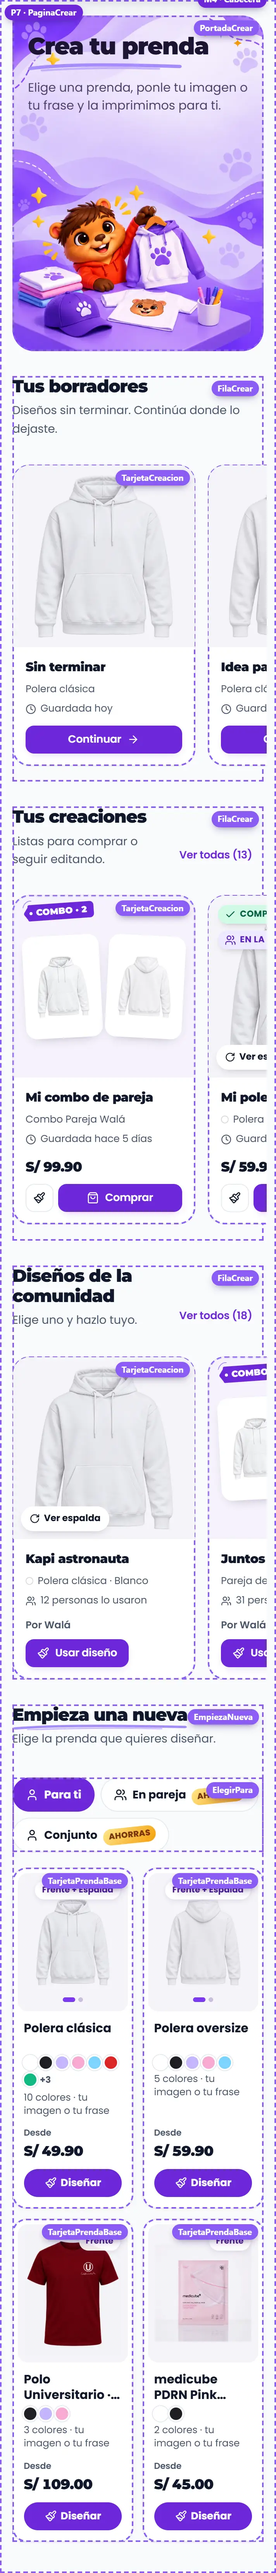
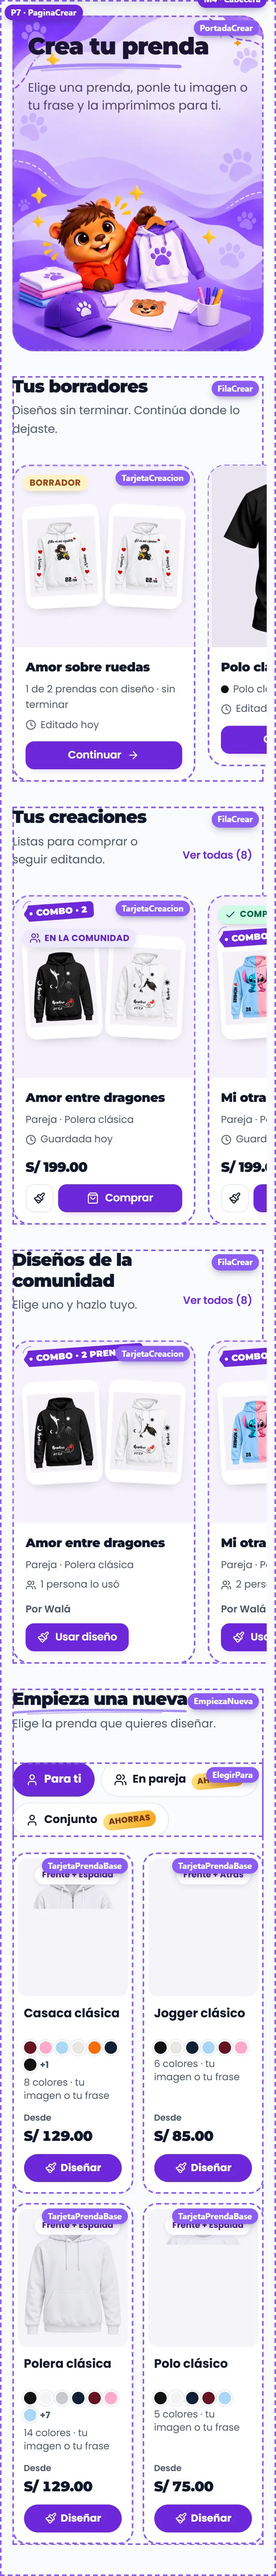
Kit: Crear con los datos reales de Walá; los puntos de la foto como en la tienda
La demo de Crear usa demo/crear.json: las prendas base y los combos de
productos_wala y los diseños de la comunidad, leídos de wala.pe y pasados
por los adaptadores del kit. Con sesión, esos diseños personalizados hacen
de borradores y creaciones (también en Mis creaciones), en lugar de
prendas en blanco. Los puntos de frente/espalda de TarjetaPrendaBase son
los de la tienda: dos puntos arriba, solo sin ratón.

diff --git a/src/componentes/DemoCuenta.jsx b/src/componentes/DemoCuenta.jsx
@@ -5,10 +5,10 @@ import {
   PaginaCatalogo, PaginaCupones, PaginaMisiones, PaginaReferidos, PaginaCreaciones, PaginaListaDeseos, PaginaFechas,
   PaginaDetallePedido, HojaPagarSaldo, Boton, enlaceWhatsApp, PaginaEncuesta,
   PaginaLogin, PaginaRegistro, PaginaRecuperar, PaginaCompletarPerfil, PaginaCrear,
+  prendaCrearDesdeProducto, comboCrearDesde, disenoComunidadDesde,
 } from './kit';
 import { empresa } from '../config/empresa';
-import POLERA from './demo/polera-fondo-blanco.jpg';
-import POLERA_ESPALDA from './demo/polera-fondo-blanco-espalda.jpg';
+import CREAR from './demo/crear.json';
 import { volarMonedasGanadas } from '../utils/animations';
 import { DEPARTAMENTOS, getProvincias } from '../constants/peruUbigeo';
 import { distritosSugeridos, lugarLegible } from '../utils/ubicacionErp';
@@ -145,20 +145,48 @@ const gruposReferidosDemo = (fotos) => [
 
 /* Personalización: creaciones (las fotos de la polera son de la demo del
    estudio), deseos (productos reales) y fechas importantes. */
-const creacionesDemo = (fotos) => [
-  { id: 'd1', nombre: 'Mi polera con Kapi', imagen: POLERA, imagenEspalda: POLERA_ESPALDA, producto: 'Polera clásica', color: { nombre: 'Blanco', hex: '#ffffff' },
-    fecha: 'Guardada hace 3 días', precio: 59.9, comprado: true, publicada: true, urlEditar: '/crear/polera?designId=d1', urlComprar: '/creacion/d1' },
-  { id: 'd2', nombre: 'Para el equipo', imagen: POLERA, imagenEspalda: POLERA_ESPALDA, producto: 'Polera clásica', color: { nombre: 'Blanco', hex: '#ffffff' },
-    fecha: 'Guardada ayer', precio: 54.9, precioAntes: 64.9, combo: 'Pareja', urlEditar: '/crear/polera?designId=d2', urlComprar: '/creacion/d2' },
-  { id: 'd3', nombre: 'Regalo para papá', imagen: fotos[2]?.imagen, producto: fotos[2]?.nombre, fecha: 'Guardada hace 12 días', precio: 34.9,
-    lados: 'Frente', urlEditar: '/editor/taza?designId=d3', urlComprar: '/creacion/d3' },
-  { id: 'd4', nombre: 'Diseño de verano', imagen: fotos[0]?.imagen, producto: 'Polo descontinuado', fecha: 'Guardada hace 40 días', disponible: false, urlEditar: '/editor/x?designId=d4' },
-];
-/* Un combo guardado (TarjetaMiCombo) y uno a medias. */
-const combosDemo = (fotos) => [
-  { id: 'k1', nombre: 'Mi combo de pareja', imagenes: [POLERA, POLERA_ESPALDA], combo: '2', subtitulo: 'Combo Pareja Walá',
-    fecha: 'Guardada hace 5 días', precio: 99.9, urlEditar: '/combo/pareja?mio=k1', urlComprar: '/combo/pareja?mio=k1' },
-];
+/* ── Datos reales de Crear (demo/crear.json: prendas base, combos y diseños
+   de la comunidad leídos de wala.pe), por los adaptadores del kit. ── */
+const PRENDAS_CREAR = CREAR.prendas
+  .filter((p) => p.deleted !== true)
+  .sort((a, b) => String(a.name).localeCompare(String(b.name)));
+const PRENDA_POR_ID = new Map(PRENDAS_CREAR.map((p) => [p.id, p]));
+const precioDe = (id) => {
+  const p = PRENDA_POR_ID.get(id) || CREAR.combos.find((c) => c.id === id);
+  if (!p) return undefined;
+  const sale = Number(p.salePrice);
+  return sale > 0 && sale < Number(p.price) ? sale : Number(p.price);
+};
+const FECHAS = ['Guardada hoy', 'Guardada ayer', 'Guardada hace 3 días', 'Guardada hace 5 días', 'Guardada hace 12 días', 'Guardada hace 20 días'];
+
+/** Un diseño real (de la comunidad) como si fuera una creación del cliente. */
+const creacionDesdeReal = (d, k) => {
+  const { usar, ...base } = disenoComunidadDesde(d);
+  const esCombo = d.tipo === 'combo';
+  return {
+    ...base,
+    id: `cr-${d.id}`,
+    fecha: FECHAS[k % FECHAS.length],
+    precio: precioDe(esCombo ? d.comboId : d.productId),
+    combo: esCombo ? String((d.piezas || []).length) : undefined,
+    subtitulo: esCombo ? d.comboNombre : undefined,
+    comprado: k === 1,
+    publicada: k === 0,
+    urlEditar: esCombo ? `/combo/${d.comboId}?mio=${d.id}` : `/crear/${d.productId}?designId=${d.id}`,
+    urlComprar: `/creacion/${d.id}`,
+  };
+};
+
+const creacionesDemo = () => CREAR.comunidad.map(creacionDesdeReal);
+
+const BORRADORES = CREAR.comunidad.slice(-3).map((d, k) => {
+  const c = creacionDesdeReal(d, k);
+  return {
+    id: `b-${d.id}`, nombre: c.nombre, imagen: c.imagen, imagenes: c.imagenes, producto: c.producto, color: c.color,
+    subtitulo: c.imagenes ? '1 de 2 prendas con diseño · sin terminar' : undefined,
+    fecha: ['Editado hoy', 'Editado ayer', 'Editado hace 2 días'][k], urlEditar: c.urlEditar,
+  };
+});
 
 /* Pedidos por verificar (coinciden con el documento). */
 const POR_VERIFICAR = [
@@ -190,12 +218,6 @@ const detalleDe = (p) => p && ({
   direccion: { linea: 'Av. Larco 1150, dpto. 502 (frente al parque)', lugar: 'Miraflores, Lima Metropolitana' },
   resumen: { productos: p.total, envio: p.total >= 150 ? 0 : 12, total: p.total + (p.total >= 150 ? 0 : 12) },
 });
-
-const BORRADORES = [
-  { id: 'b1', nombre: 'Sin terminar', imagen: POLERA, producto: 'Polera clásica', fecha: 'Guardada hoy', urlEditar: '/crear/polera?borrador=b1' },
-  { id: 'b2', nombre: 'Idea para Carlos', imagen: POLERA_ESPALDA, producto: 'Polera clásica', fecha: 'Guardada ayer', urlEditar: '/crear/polera?borrador=b2' },
-  { id: 'b3', nombre: 'Combo para el aniversario', imagenes: [POLERA, POLERA_ESPALDA], subtitulo: '1 de 2 prendas con diseño · sin terminar', fecha: 'Editado hoy', urlEditar: '/combo/pareja?mio=b3' },
-];
 
 /* Los conjuntos por defecto de tienda_encuesta_config (encuestaConfig.js):
    campos de texto con sugerencias del catálogo (sugerenciasPorCampo). */
@@ -246,7 +268,7 @@ export function CuentaDemo({
   const [misiones, setMisiones] = useState(MISIONES);
   const [grupos, setGrupos] = useState(() => gruposReferidosDemo(fotos));
   const recompensas = useMemo(() => recompensasDemo(fotos), [fotos]);
-  const [creaciones, setCreaciones] = useState(() => [...combosDemo(fotos), ...creacionesDemo(fotos)]);
+  const [creaciones, setCreaciones] = useState(() => creacionesDemo());
   const [comunidad, setComunidad] = useState({ d1: 'publicada' });
   const [pagar, setPagar] = useState(null);
   const [reclamadas, setReclamadas] = useState(false);
@@ -678,37 +700,20 @@ export const ESTADOS_CREAR = [
   ['sinCombos', 'Sin combos'],
 ];
 
-/** Colores de la polera del proveedor (con un bicolor), como fondoMuestra. */
-const COLORES_POLERA = [
-  ['blanco', 'Blanco', '#ffffff'], ['negro', 'Negro', '#1f1f23'], ['lila', 'Lila', '#c4b5fd'], ['rosa', 'Rosa', '#f9a8d4'],
-  ['celeste', 'Celeste', '#7dd3fc'], ['rojo', 'Rojo', '#dc2626'], ['jade', 'Jade', '#10b981'], ['mostaza', 'Mostaza', '#eab308'],
-  ['azul', 'Azul marino', '#1e3a8a'], ['bicolor', 'Celeste y rosa', 'linear-gradient(90deg, #7dd3fc 50%, #f9a8d4 50%)'],
-].map(([id, nombre, fondo]) => ({ id, nombre, fondo }));
-
 /**
- * Crear con datos de prueba: prendas base (la polera del proveedor y las
- * fotos de la demo), combos de pareja y de conjunto, lo del cliente (con
- * sesión) y los diseños de la comunidad.
+ * Crear con los datos reales de Walá (demo/crear.json): sus prendas base,
+ * sus combos (pareja y conjunto) y los diseños de la comunidad; con sesión,
+ * esos mismos diseños hacen de borradores y creaciones del cliente.
  */
-export function CrearDemo({ sesion, esAdmin, estados = [], fotos = [] }) {
+export function CrearDemo({ sesion, esAdmin, estados = [] }) {
   const [para, setPara] = useState(1);
-  const prendas = [
-    { id: 'polera', nombre: 'Polera clásica', frente: POLERA, espalda: POLERA_ESPALDA, lados: ['Frente', 'Espalda'], colores: COLORES_POLERA, precio: 49.9, url: '/crear/polera' },
-    { id: 'oversize', nombre: 'Polera oversize', frente: POLERA_ESPALDA, espalda: POLERA, lados: ['Frente', 'Espalda'], colores: COLORES_POLERA.slice(0, 5), precio: 59.9, url: '/crear/oversize' },
-    { id: 'casaca', nombre: fotos[0]?.nombre || 'Casaca con capucha', frente: fotos[0]?.imagen, lados: ['Frente'], colores: COLORES_POLERA.slice(1, 4), precio: 109, url: '/crear/casaca' },
-    { id: 'polo', nombre: fotos[1]?.nombre || 'Polo', frente: fotos[1]?.imagen, lados: ['Frente'], colores: COLORES_POLERA.slice(0, 2), precio: 45, url: '/crear/polo', borrador: esAdmin },
-  ].filter((p) => esAdmin || !p.borrador);
-  const combos = estados.includes('sinCombos') ? [] : [
-    { id: 'pareja', piezas: 2, conjunto: false, nombre: 'Pareja de poleras', fotos: [POLERA, POLERA], prendas: ['Polera clásica', 'Polera clásica'], precio: 89.9, sueltas: 99.8, url: '/combo/pareja?nuevo=1' },
-    { id: 'pareja-over', piezas: 2, conjunto: false, nombre: 'Pareja oversize', fotos: [POLERA_ESPALDA, POLERA_ESPALDA], prendas: ['Polera oversize', 'Polera oversize'], precio: 109.9, sueltas: 119.8, url: '/combo/pareja-over?nuevo=1' },
-    { id: 'conjunto', piezas: 3, conjunto: true, nombre: 'Conjunto completo', fotos: [fotos[0]?.imagen, POLERA, fotos[1]?.imagen].filter(Boolean), prendas: ['Casaca', 'Polera clásica', 'Polo'], precio: 179.9, sueltas: 203.9, url: '/combo/conjunto?nuevo=1' },
-  ];
-  const comunidad = [
-    { id: 'c1', nombre: 'Kapi astronauta', imagen: POLERA, imagenEspalda: POLERA_ESPALDA, producto: 'Polera clásica', color: { nombre: 'Blanco', hex: '#ffffff' }, lados: 'Frente + Espalda', usar: { url: '/crear/polera?plantilla=c1', autor: 'Walá', usos: 12 } },
-    { id: 'c2', nombre: 'Juntos desde 2019', imagenes: [POLERA, POLERA_ESPALDA], combo: '2 prendas', producto: 'Pareja de poleras', usar: { url: '/combo/pareja?plantilla=c2', autor: 'Walá', usos: 31 } },
-    { id: 'c3', nombre: 'Equipo de los viernes', imagen: POLERA_ESPALDA, producto: 'Polera oversize', color: { nombre: 'Blanco', hex: '#ffffff' }, usar: { url: '/crear/oversize?plantilla=c3', autor: 'Walá', usos: 1 } },
-    { id: 'c4', nombre: 'Mi mascota', imagen: fotos[0]?.imagen, producto: fotos[0]?.nombre, usar: { url: '/crear/casaca?plantilla=c4', autor: 'Walá' } },
-  ];
+  // Lo mismo que la tienda: el admin ve también los borradores.
+  const prendas = PRENDAS_CREAR.filter((p) => esAdmin || p.visible !== false).map(prendaCrearDesdeProducto);
+  const combos = estados.includes('sinCombos') ? [] : CREAR.combos
+    .filter((c) => esAdmin || c.publicado)
+    .map((c) => comboCrearDesde(c, PRENDA_POR_ID))
+    .filter(Boolean);
+  const comunidad = CREAR.comunidad.map(disenoComunidadDesde);
   return (
     <PaginaCrear
       prendas={estados.includes('sinPrendas') ? [] : prendas}
@@ -717,10 +722,10 @@ export function CrearDemo({ sesion, esAdmin, estados = [], fotos = [] }) {
       para={para}
       onPara={setPara}
       borradores={sesion ? BORRADORES : []}
-      creaciones={sesion ? [...combosDemo(fotos), ...creacionesDemo(fotos)] : []}
-      totalCreaciones={sesion ? 13 : 0}
+      creaciones={sesion ? creacionesDemo() : []}
+      totalCreaciones={sesion ? creacionesDemo().length : 0}
       comunidad={comunidad}
-      totalComunidad={18}
+      totalComunidad={comunidad.length}
     />
   );
 }

diff --git a/src/componentes/kit/piezas/Crear.module.css b/src/componentes/kit/piezas/Crear.module.css
@@ -271,31 +271,40 @@
 
 .puntosFoto {
   position: absolute;
+  top: 0.75rem;
   left: 50%;
-  bottom: 12px;
   z-index: 2;
-  display: flex;
-  gap: 4px;
+  /* Como en la tienda: solo sin ratón (en el celular, donde frente y espalda
+     alternan solas). Con ratón la espalda se ve al pasar y no hacen falta. */
+  display: none;
+  gap: 5px;
   transform: translateX(-50%);
+  pointer-events: none;
+}
+
+@media (hover: none) {
+  .conEspalda .puntosFoto {
+    display: flex;
+  }
 }
 
 .puntosFoto i {
   width: 6px;
   height: 6px;
-  border-radius: 999px;
-  background: rgba(76, 29, 149, 0.25);
-  transition: width var(--dur-media) var(--ease-signature), background-color var(--dur-media) ease;
+  border-radius: 50%;
+  background: rgba(139, 92, 246, 0.3);
+  transition: background-color 0.2s ease, transform 0.2s ease;
 }
 
 .puntosFoto i:first-child,
 .verEspalda .puntosFoto i:last-child {
-  width: 16px;
-  background: #7c3aed;
+  background: #8b5cf6;
+  transform: scale(1.3);
 }
 
 .verEspalda .puntosFoto i:first-child {
-  width: 6px;
-  background: rgba(76, 29, 149, 0.25);
+  background: rgba(139, 92, 246, 0.3);
+  transform: none;
 }
 
 /* Combo: las prendas en abanico. */
@@ -476,16 +485,6 @@
 
   .tarjeta:hover .conEspalda .fotoEspalda {
     opacity: 1;
-  }
-
-  .tarjeta:hover .conEspalda .puntosFoto i:first-child {
-    width: 6px;
-    background: rgba(76, 29, 149, 0.25);
-  }
-
-  .tarjeta:hover .conEspalda .puntosFoto i:last-child {
-    width: 16px;
-    background: #7c3aed;
   }
 
   .tarjeta:hover .foto:not(.conEspalda) .fotoFrente {

diff --git a/src/componentes/DemoTienda.jsx b/src/componentes/DemoTienda.jsx
@@ -588,7 +588,7 @@ export default function DemoTienda({ marcas = [], usuario, tema, cambiarTema, no
     // Kapi ya está en el arte de la portada: ni el pie ni el flotante lo repiten.
     <MarcoTienda {...marco} kapiEnPie={false}>
       <Parte n="P7" nombre="PaginaCrear">
-        <CrearDemo sesion={conSesion} esAdmin={esAdmin} estados={estadosCrear} fotos={FOTOS_CUENTA} />
+        <CrearDemo sesion={conSesion} esAdmin={esAdmin} estados={estadosCrear} />
       </Parte>
     </MarcoTienda>
   ) : pagina === 'acceso' ? (
